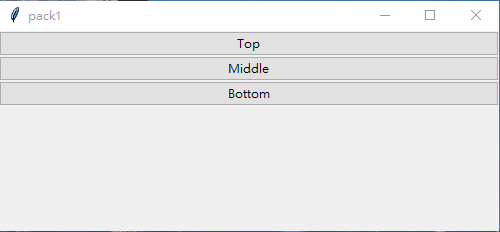
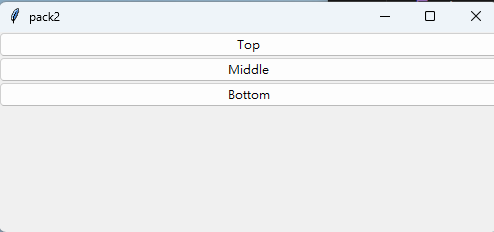
modify112

diff --git a/window_layout/index1.py b/window_layout/index1.py
@@ -4,14 +4,18 @@ from tkinter import ttk
 class Window(tk.Tk):
     def __init__(self,**kwargs):
         super().__init__(**kwargs)
-        self.title("pack1")
+        self.title("pack3")
         self.geometry('300x300')
 
-        ttk.Button(self,text="大家排隊").pack()
+        ttk.Button(self,text="排隊囉").pack()
         ttk.Button(self,text="A1").pack()
         ttk.Button(self,text="A2").pack()
         ttk.Button(self,text="A3").pack()
         ttk.Button(self,text="A4").pack()
+        ttk.Button(self,text="A5").pack()
+        ttk.Button(self,text="A6").pack()
+        ttk.Button(self,text="A7").pack()
+        ttk.Button(self,text="A8").pack()
 
 
 

diff --git a/window_layout/index4.py b/window_layout/index4.py
@@ -5,7 +5,7 @@ class Window(tk.Tk):
     def __init__(self,**kwargs):
         super().__init__(**kwargs)
         self.title("pack1")
-        self.geometry('300x200')
+        self.geometry('300x300')
 
         ttk.Button(self,text="Top").pack(fill='both',expand=1)
         

diff --git a/window_layout/index3.py b/window_layout/index3.py
@@ -4,7 +4,7 @@ from tkinter import ttk
 class Window(tk.Tk):
     def __init__(self,**kwargs):
         super().__init__(**kwargs)
-        self.title("pack1")
+        self.title("pack2")
         self.geometry('500x200')
 
         ttk.Button(self,text="Top").pack(fill='x')
